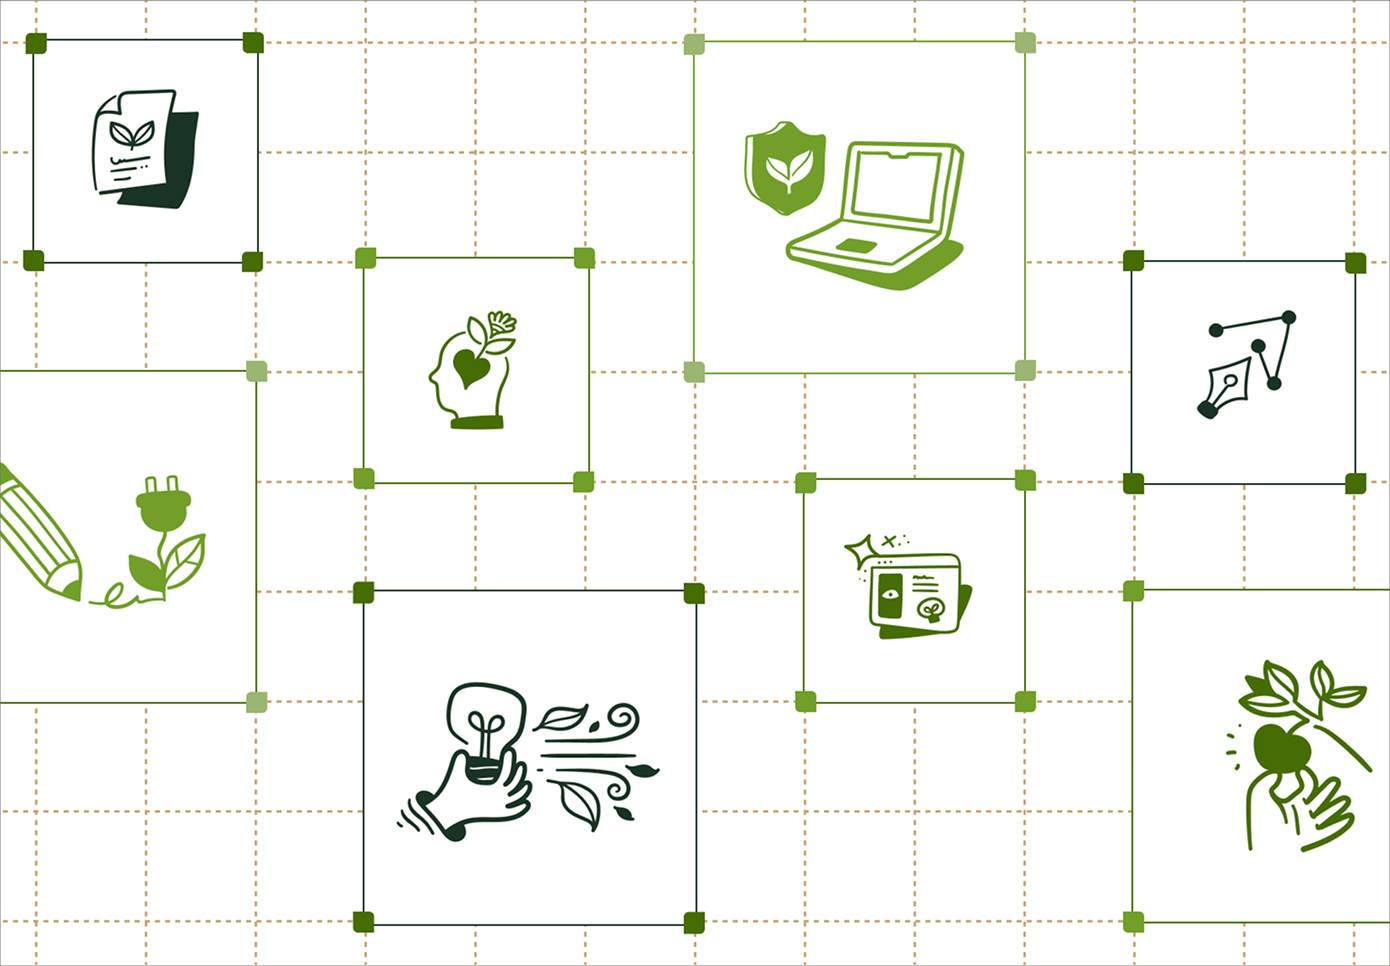
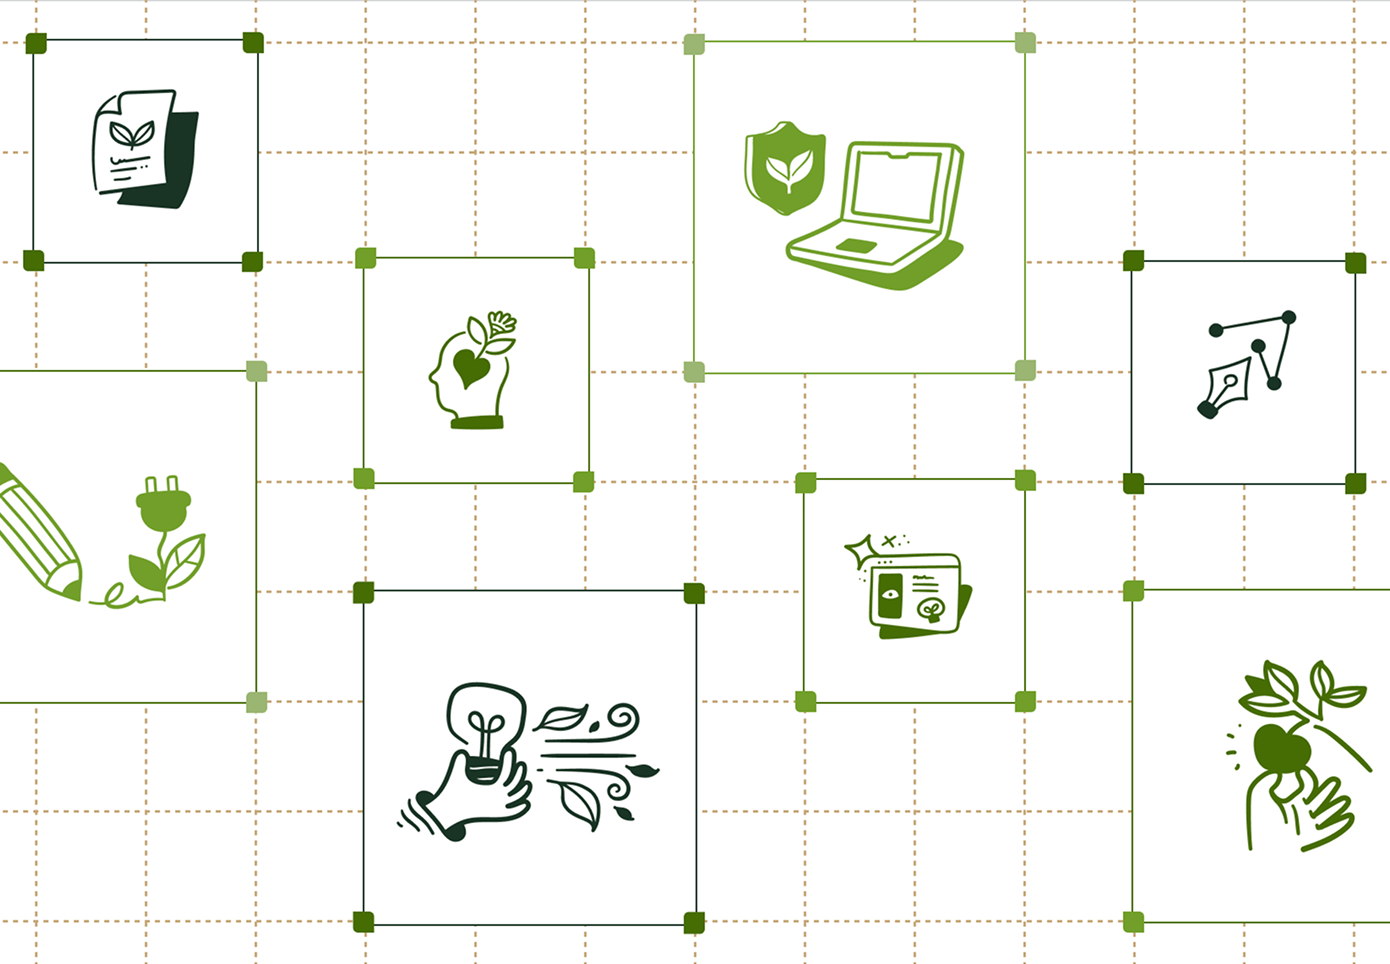
fix: align border ux

diff --git a/src/styles/custom.css b/src/styles/custom.css
@@ -150,7 +150,7 @@ body:has(.grove-home-section-container) {
 }
 
 .grove-home-section-container{
-  border-top: 0.25px solid var(--grove-base-700);
+  border-top: 0.5px solid var(--grove-base-700);
 }
 
 .grove-home-section {
